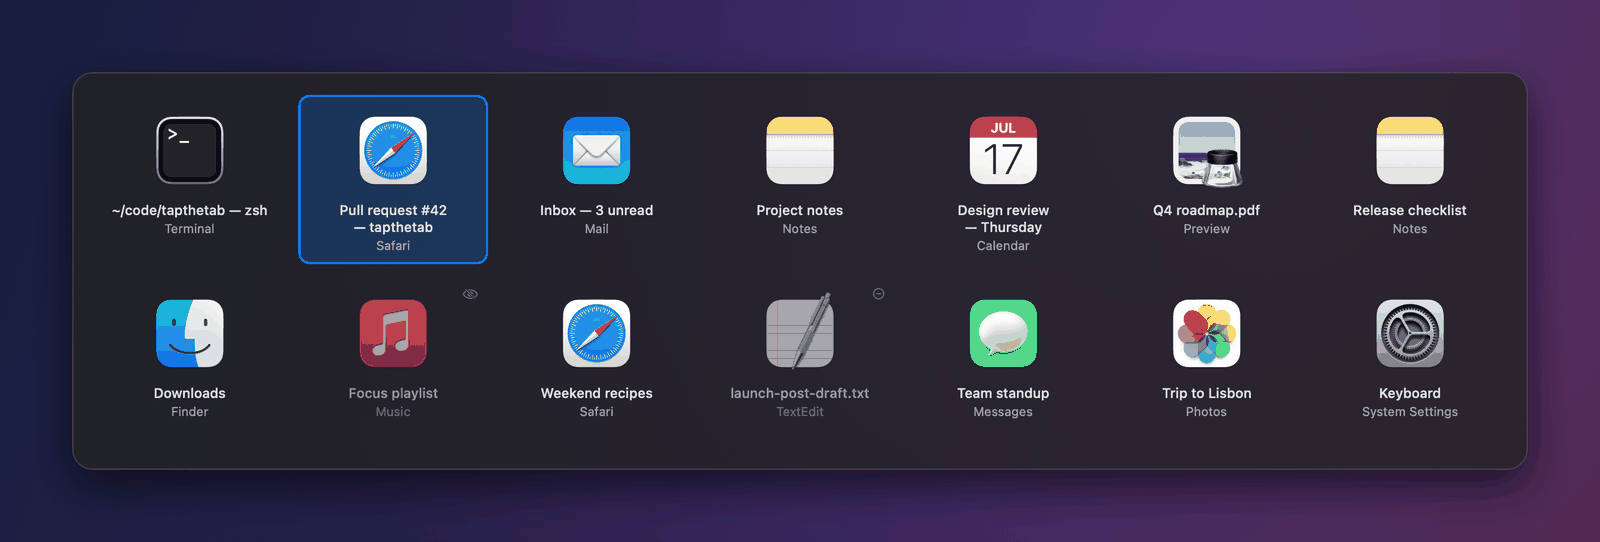
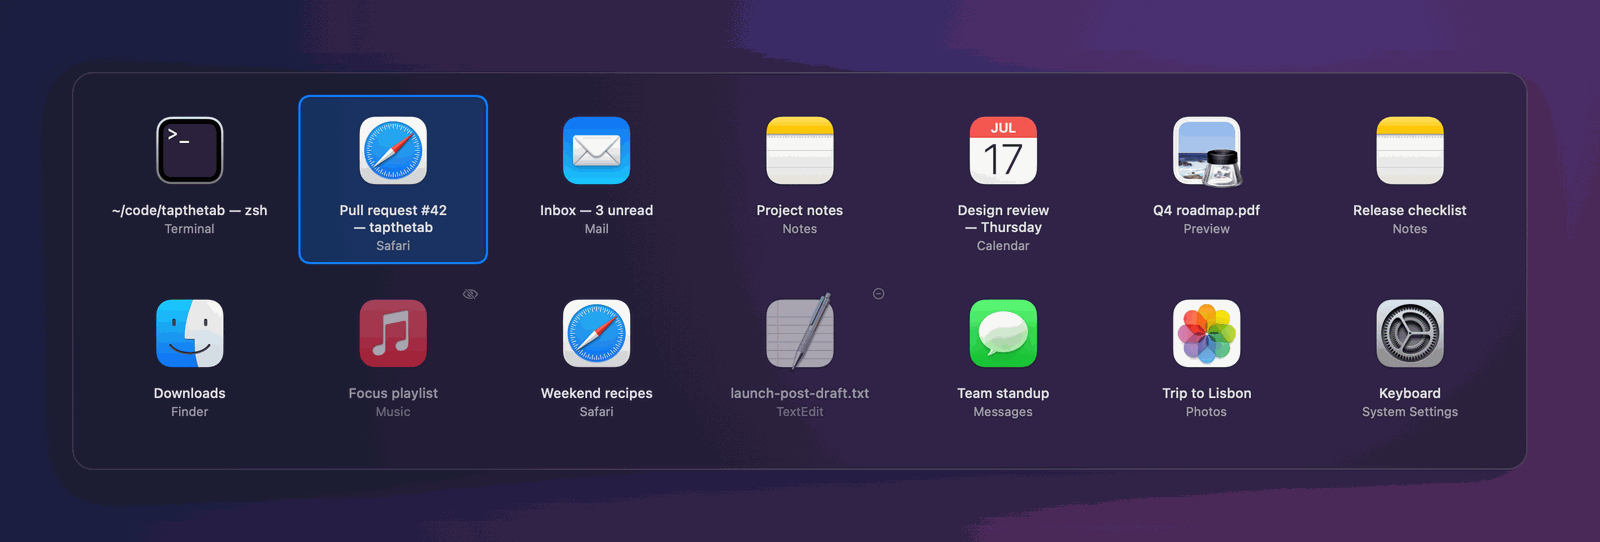
docs: refresh README screenshots, add the themed list

diff --git a/README.md b/README.md
@@ -58,6 +58,15 @@ built around three goals:
       <p align="center"><sub>Optional live previews</sub></p>
     </td>
   </tr>
+  <tr>
+    <td colspan="2">
+      <picture>
+        <source media="(prefers-color-scheme: dark)" srcset="docs/images/switcher-themed-dark.png">
+        <img alt="List layout on the Dusk theme: each row shows a live thumbnail of its window with the app icon as a badge" src="docs/images/switcher-themed-light.png">
+      </picture>
+      <p align="center"><sub>Themes and window thumbnails in the list</sub></p>
+    </td>
+  </tr>
 </table>
 
 <sub>Screenshots are rendered by the app itself from fictional sample windows
